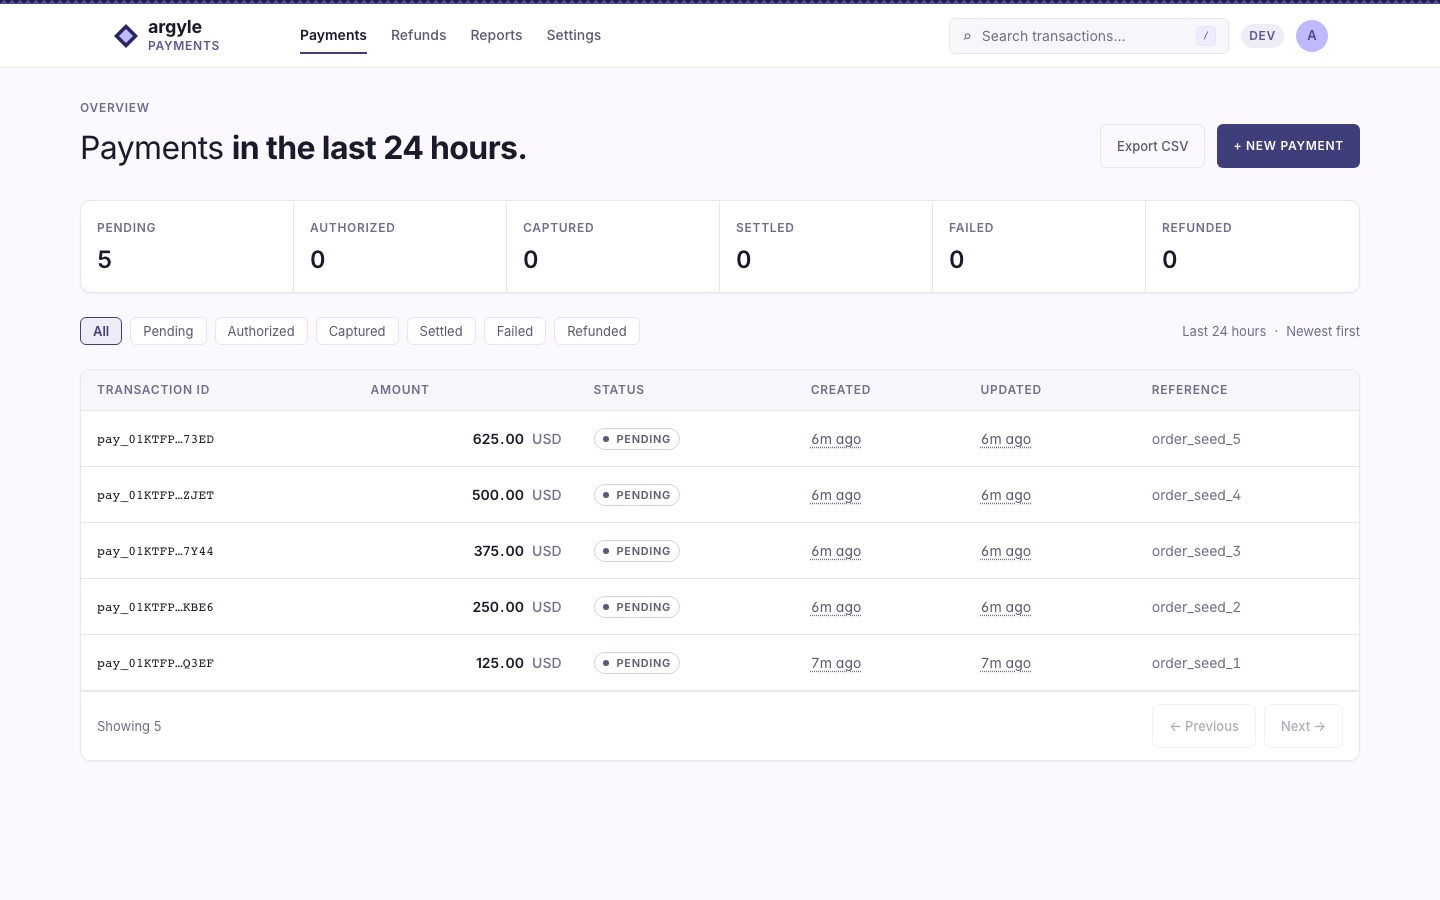
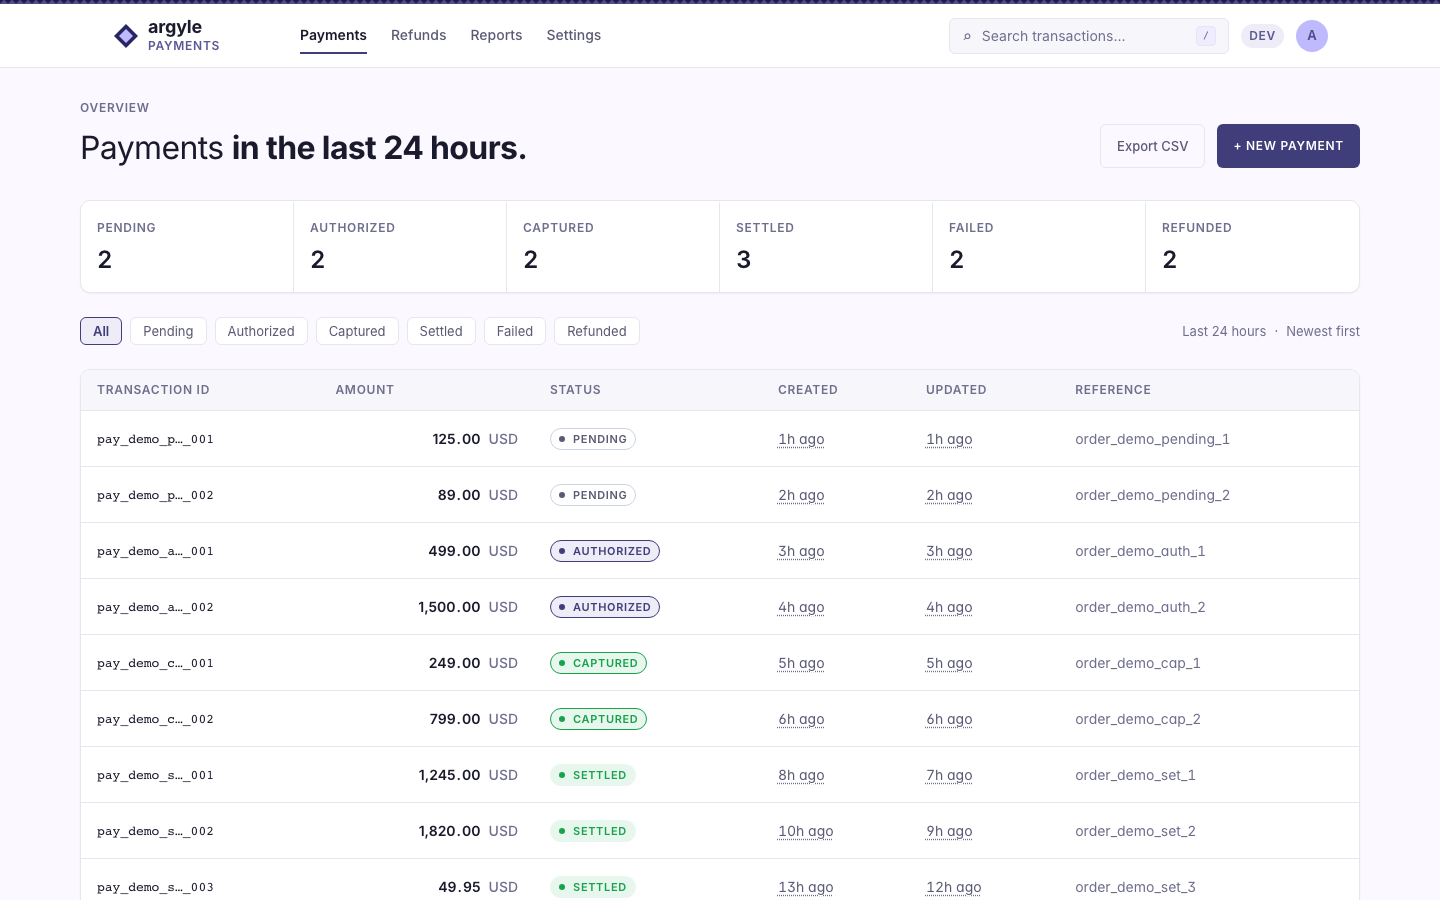
feat: live polling + seeded demo data across every status
Dashboard had two demo gaps a reviewer would notice:

1. The list query never refetched. Running ./scripts/run.sh in a
   separate terminal would create new payments but the open
   dashboard wouldn't notice until window refocus. Add a 5s polling
   interval on the list query; add a conditional 3s interval on the
   detail query that only fires while the payment is in flight
   (Pending / Authorized / Captured) and stops once it lands in a
   terminal state (Settled / Failed / Refunded). refetchInBackground
   stays false so a backgrounded tab doesn't burn requests.

2. The status filter chips were dead — everything created via the
   API stays Pending in the current build, so Authorized/Captured/
   Settled/Failed/Refunded filters all rendered the empty state.
   Add scripts/seed-demo-data.sh which inserts 13 payments spread
   across all six statuses with matching audit-event timelines,
   then wire it into run.sh so a fresh ./scripts/run.sh produces a
   visually populated dashboard. The seed is idempotent: skips when
   the merchant already has ≥10 payments.

Refresh docs/dashboard-screenshot.png against the seeded data so
the README reflects what a reviewer actually sees on first boot
(2 / 2 / 2 / 3 / 2 / 2 across the six status tiles).

diff --git a/frontend/src/features/payment-detail/usePaymentDetail.ts b/frontend/src/features/payment-detail/usePaymentDetail.ts
@@ -3,11 +3,20 @@ import { paymentsApi } from '../../lib/api/client';
 import { queryKeys } from '../../lib/api/queryKeys';
 import type { Payment } from '../../lib/api/types';
 
+const IN_FLIGHT_STATUSES = new Set(['Pending', 'Authorized', 'Captured']);
+
 export function usePaymentDetail(id: string | undefined) {
   return useQuery<Payment>({
     queryKey: id ? queryKeys.payments.detail(id) : ['payments', 'detail', 'none'],
     queryFn: ({ signal }) => paymentsApi.get(id!, signal),
     enabled: !!id,
+    refetchInterval: (query) => {
+      const status = query.state.data?.status;
+      // Poll fast while the payment is still moving; stop once it lands
+      // in a terminal state (Settled / Failed / Refunded).
+      return status && IN_FLIGHT_STATUSES.has(status) ? 3_000 : false;
+    },
+    refetchIntervalInBackground: false,
   });
 }
 

diff --git a/frontend/src/features/payments-list/usePaymentsList.ts b/frontend/src/features/payments-list/usePaymentsList.ts
@@ -8,5 +8,7 @@ export function usePaymentsList(query: ListPaymentsQuery) {
     queryKey: queryKeys.payments.list(query),
     queryFn: ({ signal }) => paymentsApi.list(query, signal),
     placeholderData: (prev) => prev,
+    refetchInterval: 5_000,
+    refetchIntervalInBackground: false,
   });
 }